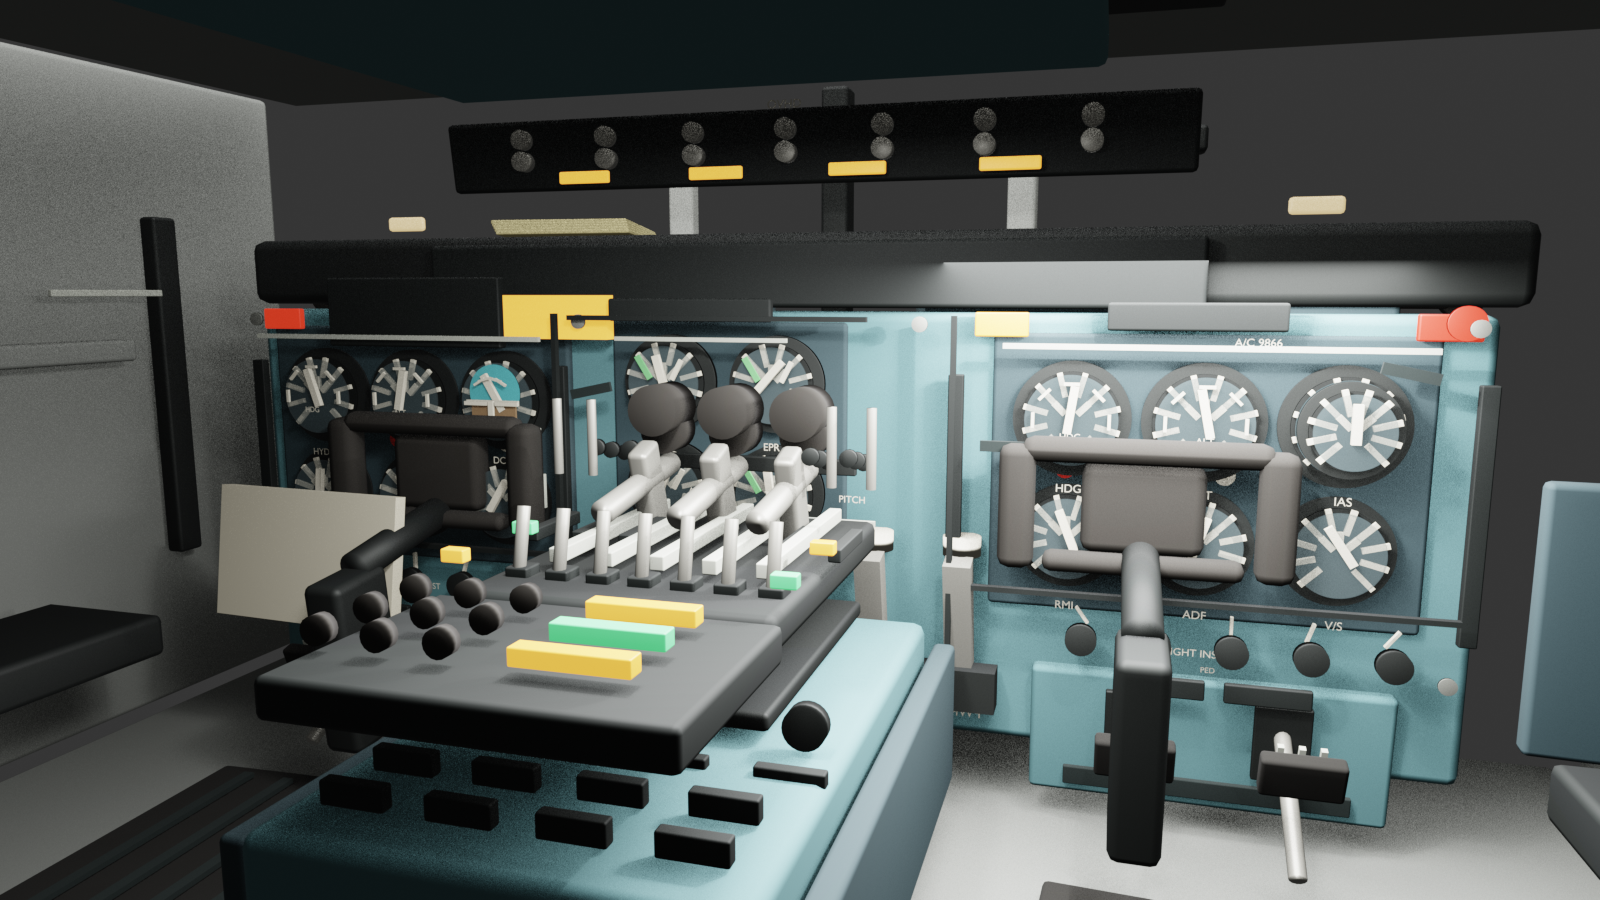
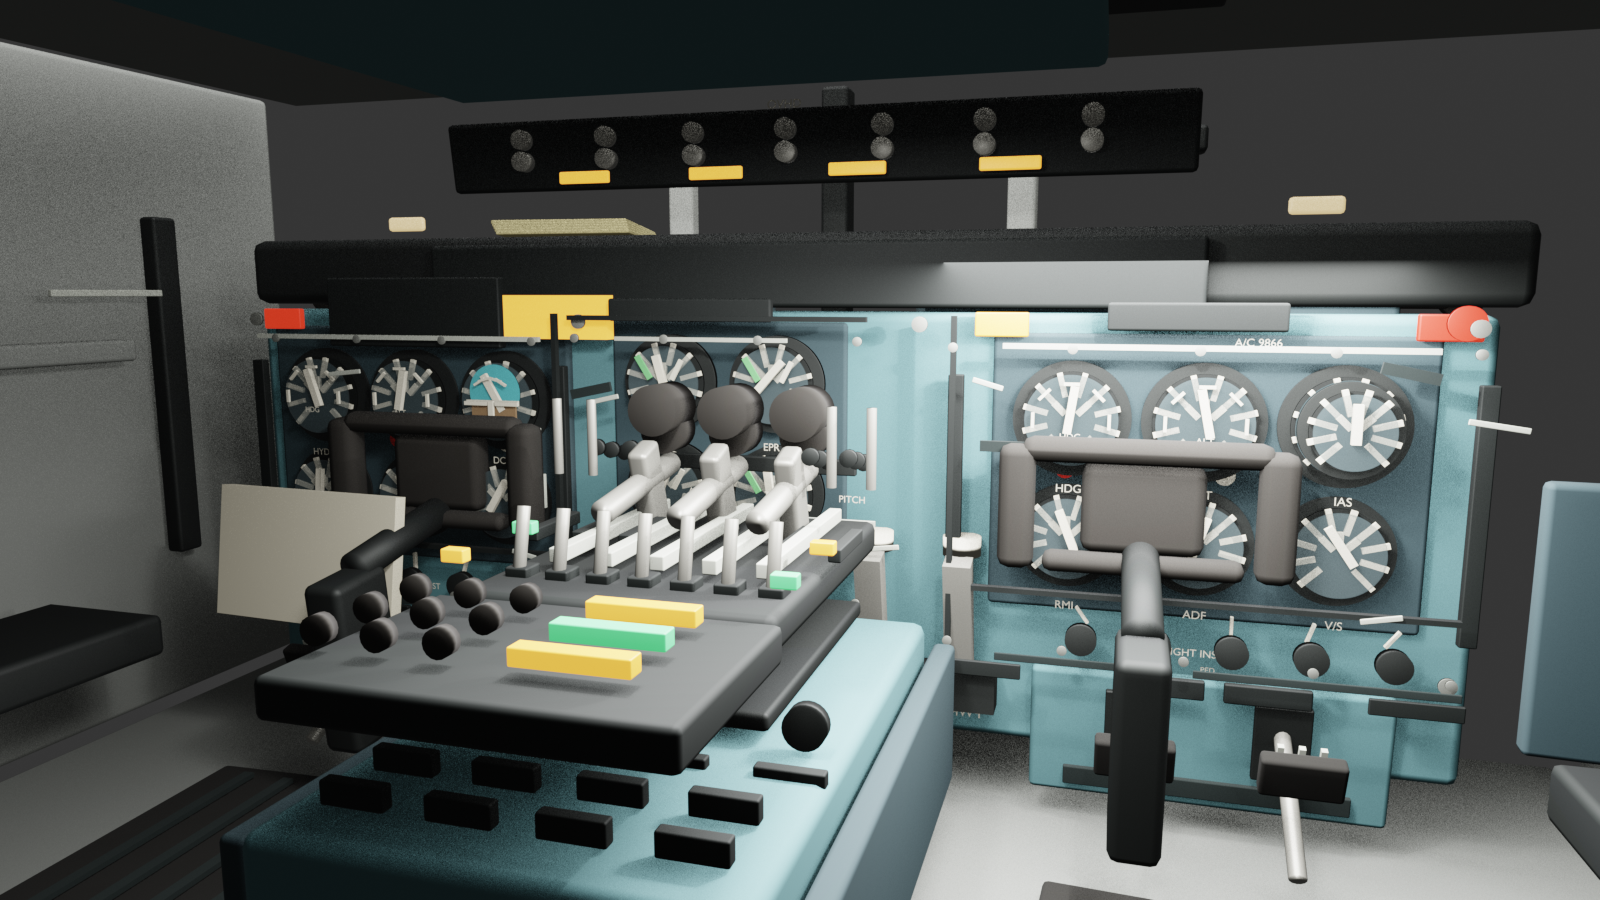
Add DC-9 panel surface aging cues

diff --git a/tools/blender/create_dc9_pipeline_proof.py b/tools/blender/create_dc9_pipeline_proof.py
@@ -602,6 +602,48 @@ def add_panel_wear(parent, mat_wear, mat_shadow):
         cube(f"DC9_PANEL_GRIME_SHADOW_{idx:02d}", parent, loc, (0.11, 0.01, 0.024), mat_shadow, (0, math.radians((idx - 1) * 12), 0))
 
 
+def add_panel_surface_aging(parent, mat_screw, mat_wear, mat_shadow, mat_placard, mat_label):
+    screw_rows = [
+        ("CAPTAIN", [-1.48, -1.22, -0.96, -0.7, -0.44], [0.86, 0.18]),
+        ("CENTER", [-0.22, 0.02, 0.26, 0.5], [0.87, 0.25]),
+        ("FIRST_OFFICER", [0.62, 0.88, 1.14, 1.4], [0.86, 0.18]),
+    ]
+    screw_index = 0
+    for section, xs, zs in screw_rows:
+        for z in zs:
+            for x in xs:
+                screw = cylinder(f"DC9_PANEL_SURFACE_SCREW_{section}_{screw_index:02d}", parent, (x, -0.803, z), 0.011, 0.008, mat_screw, 14)
+                screw["detail_role"] = "primary_reference_panel_fastener_grid"
+                screw_index += 1
+    chip_specs = [
+        (-1.52, 0.72, 0.11, -8), (-1.34, 0.31, 0.08, 11), (-0.52, 0.78, 0.07, -16),
+        (-0.28, 0.39, 0.09, 7), (0.42, 0.72, 0.08, 13), (0.66, 0.31, 0.07, -12),
+        (1.18, 0.77, 0.1, 6), (1.5, 0.36, 0.08, -9),
+    ]
+    for idx, (x, z, length, angle) in enumerate(chip_specs):
+        chip = soft_cube(
+            f"DC9_PANEL_PAINT_CHIP_{idx:02d}",
+            parent,
+            (x, -0.796, z),
+            (length, 0.006, 0.012),
+            mat_wear,
+            (0, math.radians(angle), 0),
+            0.002,
+        )
+        chip["detail_role"] = "restrained_paint_edge_wear"
+    grime_specs = [
+        (-1.24, 0.155, 0.52), (-0.72, 0.155, 0.34), (0.04, 0.19, 0.44), (0.9, 0.155, 0.42), (1.36, 0.155, 0.3),
+    ]
+    for idx, (x, z, width) in enumerate(grime_specs):
+        soft_cube(f"DC9_LOWER_PANEL_GRIME_FEATHER_{idx:02d}", parent, (x, -0.797, z), (width, 0.006, 0.018), mat_shadow, bevel_amount=0.002)
+    placards = [
+        ("HYD PRESS", -1.42, 0.12), ("WARN", -0.52, 0.12), ("FUEL FLOW", 0.06, 0.18), ("ANTI ICE", 0.66, 0.12), ("CABIN", 1.42, 0.12),
+    ]
+    for idx, (text, x, z) in enumerate(placards):
+        soft_cube(f"DC9_SMALL_BLACK_SERVICE_PLACARD_{idx:02d}", parent, (x, -0.802, z), (0.18, 0.01, 0.036), mat_placard, bevel_amount=0.003)
+        add_label(f"DC9_SMALL_SERVICE_PLACARD_TEXT_{idx:02d}", parent, text, (x, -0.812, z), 0.014, mat_label, (math.radians(90), 0, math.radians(180)))
+
+
 def add_lower_panel_controls(parent, mat_knob, mat_mark, mat_placard):
     for idx, x in enumerate([-1.38, -1.22, -1.06, -0.9, -0.74, 0.72, 0.88, 1.04, 1.2, 1.36]):
         cylinder(f"DC9_LOWER_PANEL_KNOB_{idx:02d}", parent, (x, -0.835, 0.2), 0.035, 0.032, mat_knob, 24)
@@ -737,6 +779,7 @@ def create_scene() -> None:
     add_pedestal_micro_detail(static, dark_mat, metal_mat, tick_mat, amber_mat, green_mat)
     add_panel_seams(static, placard_mat)
     add_panel_wear(static, wear_mat, grime_mat)
+    add_panel_surface_aging(static, screw_mat, wear_mat, grime_mat, placard_mat, tick_mat)
     for x in [-0.16, 0.0, 0.16]:
         soft_cube(f"DC9_THROTTLE_LEVER_BLOCKOUT_{int((x + 1) * 100):03d}", static, (x, -0.51, 0.48), (0.045, 0.08, 0.38), metal_mat, (math.radians(-18), 0, 0), 0.012)
         cylinder(f"DC9_THROTTLE_KNOB_BLOCKOUT_{int((x + 1) * 100):03d}", static, (x, -0.59, 0.68), 0.05, 0.075, grip_mat, 24, (math.pi / 2, 0, 0))

diff --git a/asset-reports/dc9-pipeline-proof.md b/asset-reports/dc9-pipeline-proof.md
@@ -25,6 +25,7 @@ Date: 2026-06-22
 - Goal-loop local batch 7: 2026-06-22 footwell and floor realism pass added lower kick panels, black rubber floor mats, rudder pedal silhouettes, pedal ribs, floor scuffs, and lower-panel grime. This remains local; no PR update was opened for this individual iteration.
 - Goal-loop local batch 8: 2026-06-22 instrument-face realism pass added blue/brown attitude-indicator cues, aircraft reference bars, pitch marks, primary-gauge face marks, and green/white engine-gauge arcs. This remains local; no PR update was opened for this individual iteration.
 - Goal-loop local batch 9: 2026-06-22 yoke-detail realism pass added center badges, thumb buttons, extra checklist linework, metal clips, and worn grip-edge highlights to the captain and first-officer yokes. This remains local; no PR update was opened for this individual iteration.
+- Goal-loop local batch 10: 2026-06-22 panel-surface aging pass added a denser fastener grid, chipped-paint slivers, lower-panel grime feathers, and small service placards across the main panel. This remains local; no PR update was opened for this individual iteration.
 
 ## Asset Contents
 
@@ -58,6 +59,7 @@ Date: 2026-06-22
   - added lower kick-panel, rubber floor-mat, rudder-pedal, and scuffed-floor cues so the lower cockpit no longer reads as an empty clean shell
   - added attitude-indicator sky/ground color, pitch marks, aircraft bars, denser primary-gauge marks, and engine-gauge green arcs so the main panel reads less generic from the captain seat
   - added yoke badges, red/white thumb-button cues, extra checklist markings, metal clips, and worn grip-edge highlights so the yokes look less like plain blockout bars
+  - added a restrained fastener grid, panel chips, grime feathers, and service placards so the blue-grey panel surfaces read as aged aircraft hardware instead of clean flat blocks
 
 ## Runtime Contract
 
@@ -82,9 +84,9 @@ Custom properties exported to glTF extras:
 
 ## GLB Inspection
 
-- GLB size: 3,344,364 bytes / 3.19 MiB
-- Node count: 889
-- Mesh count: 878
+- GLB size: 3,547,140 bytes / 3.38 MiB
+- Node count: 938
+- Mesh count: 927
 - Material count: 30
 - Animation count: 1
 - Camera count: 1
@@ -113,7 +115,7 @@ Results:
 - `gltf-transform validate` reported no errors and no warnings. It reports info-level unused UV attributes and empty hierarchy nodes; these are expected for this named blockout because UVs are reserved for later texture work and empty hierarchy nodes preserve the asset contract.
 - `npm run assets:check` passed.
 - `npm run check` passed as non-mutating validation; browser integration remains Windows-owned.
-- Manual visual inspection of `preview-renders/dc9-captain-approval.png` confirmed a stronger captain-seat read against the primary DC-9-51 cockpit reference: squared yokes with checklist placards, yoke button/detail cues, readable gauge labels, a visible forward-overhead control band, denser instrument panel, colored attitude-indicator cues, busier primary/engine instrument faces, black mechanical pedestal/throttle/radio-stack detail, glareshield controls, windshield/wiper/paper-stack reference cues, recessed instrument trays, side paperwork, subtle seat foreground cues, small eyebrow lamps, clearer cockpit enclosure, visible lower kick panels/rudder-pedal cues, floor scuffing, and less flat main-panel presentation.
+- Manual visual inspection of `preview-renders/dc9-captain-approval.png` confirmed a stronger captain-seat read against the primary DC-9-51 cockpit reference: squared yokes with checklist placards, yoke button/detail cues, readable gauge labels, a visible forward-overhead control band, denser instrument panel, colored attitude-indicator cues, busier primary/engine instrument faces, black mechanical pedestal/throttle/radio-stack detail, glareshield controls, windshield/wiper/paper-stack reference cues, recessed instrument trays, side paperwork, subtle seat foreground cues, small eyebrow lamps, clearer cockpit enclosure, visible lower kick panels/rudder-pedal cues, floor scuffing, panel fastener/paint-chip/grime variation, and less flat main-panel presentation.
 
 ## Known Deviations
 
@@ -129,4 +131,5 @@ Results:
 - The lower kick panels and rudder pedals are proof-stage silhouettes for captain-view realism; production art should refine pedal linkage geometry, footwell clearances, and lower-panel shapes against direct DC-9 references.
 - The new attitude-indicator and gauge-face details are geometry placeholders for visual read. Production art should replace them with correctly scaled instrument faces, typography, glass, and baked markings after the reference set is expanded.
 - The yoke buttons, badges, checklist strips, and wear highlights are proof-stage readability cues; production art should refine the exact yoke casting shape, placard layout, button placement, and grip material against closer DC-9-51 yoke references.
+- The panel-surface aging is intentionally procedural geometry for proof-stage readability. Production art should replace much of it with baked paint wear, accurate screw placement, and real placard typography once the detailed panel model is built.
 - The browser integration is Windows-owned under `src/**`; this Ubuntu branch only provides the deployable GLB and documented runtime contract.